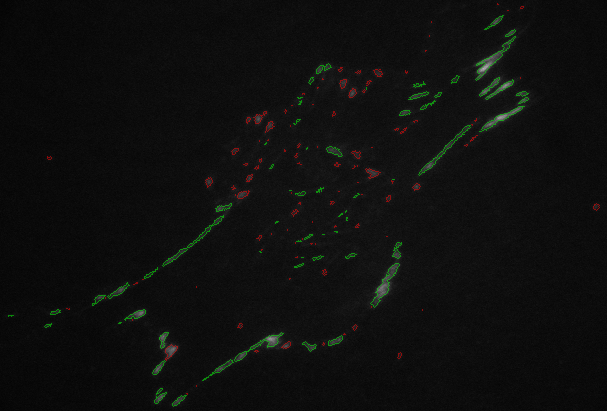
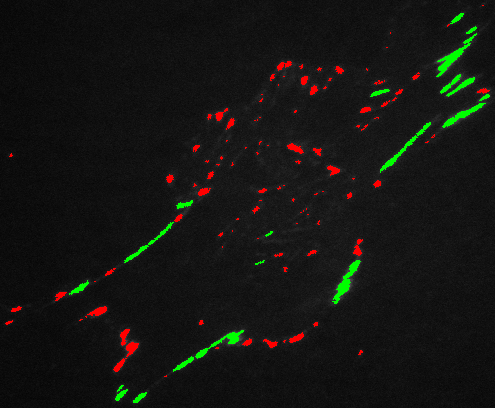
simple orientation: 	-changing highlight colors and filling adhesions, adding in raw data
git-svn-id: https://svn-rc.unc.edu/gomez_lab/focal_adhesions/trunk@2980 ca063d7d-9bfa-4cd9-82ec-4107ad7834e0

diff --git a/doc/publication/figures/emma/simple orientation/process_image.m b/doc/publication/figures/emma/simple orientation/process_image.m
@@ -1,0 +1,24 @@
+%% Image comes from Fibro_100ug_trial_2/WT_10 - Image 001
+
+addpath('~/Documents/Projects/focal_adhesions/trunk/src/visualize_cell_features/');
+
+focal_image = double(imread('focal_image.png'));
+adhesions = imread('adhesions.png');
+
+limits = [62,469,70,564];
+
+focal_image = (focal_image - min(focal_image(:)))/range(focal_image(:));
+
+props = regionprops(adhesions,'MajorAxisLength','MinorAxisLength');
+
+ratio = [props.MajorAxisLength]./[props.MinorAxisLength];
+
+high_ratio = ismember(adhesions,find(ratio >= 3));
+low_ratio = ismember(adhesions,find(ratio < 3));
+
+highlight = create_highlighted_image(focal_image,high_ratio,'color_map',[0,1,0]);
+highlight = create_highlighted_image(highlight,low_ratio,'color_map',[1,0,0]);
+
+highlight = highlight(limits(1):limits(2),limits(3):limits(4),1:3);
+
+imwrite(highlight,'eccen_above_3.png');
